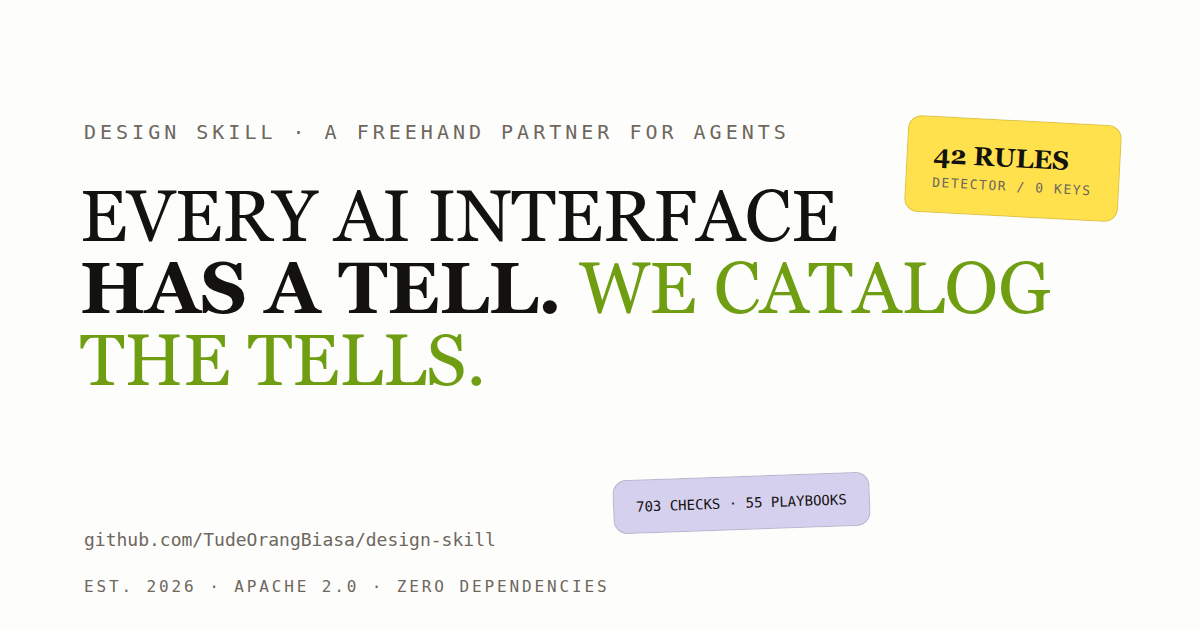
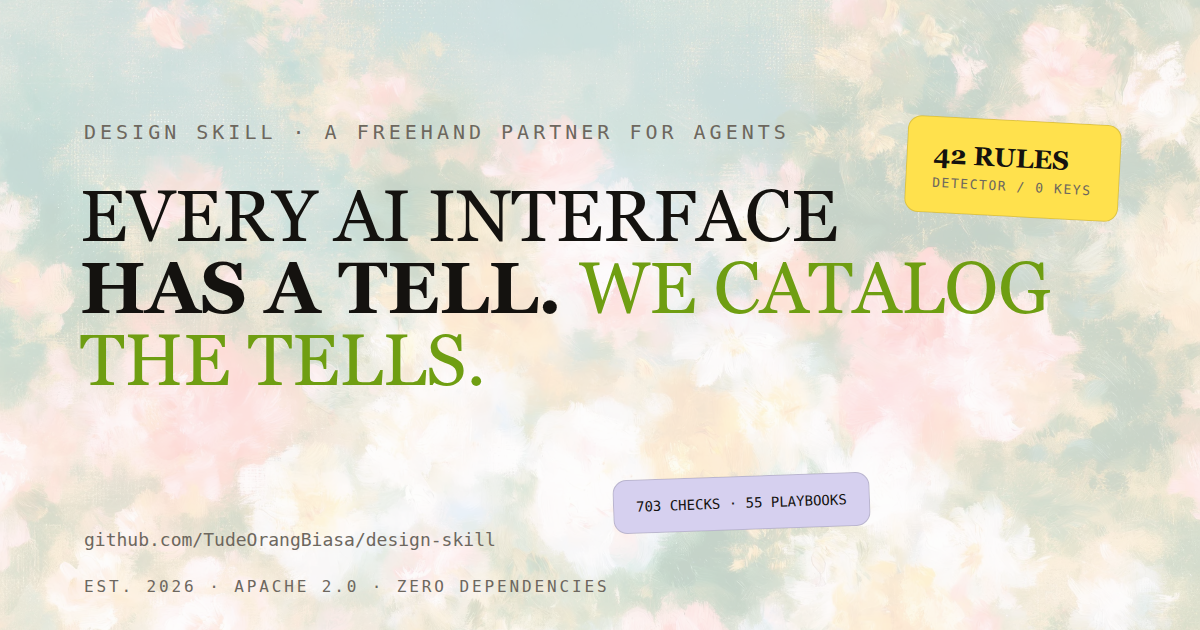
site: painterly backgrounds from the viridian set (webp)
Seven impressionist oil-painting backgrounds (user downloads, 2912x1632 PNG) compressed with ffmpeg to 1920w webp q80, 95% smaller (400-670KB). Placement: viridian-1 (bright meadow) as a washed hero background under a 86% paper overlay; viridian-2 (saxophone on deep green) as the install band texture under an 82% ink overlay; viridian-21 in the og image. Images 10/15/16/18 kept in the compressed library for future sections. Originals gitignored; detector 0 errors; vision-reviewed 9/10.

diff --git a/site/src/site.css b/site/src/site.css
@@ -38,7 +38,10 @@ header{position:sticky;top:0;background:var(--canvas);border-bottom:1px solid va
 
 /* ---------- landing ---------- */
 section{padding:96px 0}
-.hero{padding:120px 0 96px}
+.hero{padding:120px 0 96px;position:relative}
+.hero.painterly{background-image:url("assets/bg/viridian-1.webp");background-size:cover;background-position:center 30%}
+.hero.painterly::before{content:"";position:absolute;inset:0;background:rgba(253,253,251,.86)}
+.hero .wrap{position:relative;z-index:1}
 .kicker{font:12px var(--mono);color:var(--ink2);letter-spacing:.22em;margin-bottom:36px}
 h1{font-family:var(--display);font-weight:400;font-size:92px;line-height:.98;letter-spacing:-.015em;text-transform:uppercase}
 h1 .black{font-weight:900}
@@ -90,7 +93,10 @@ h2{font-family:var(--display);font-weight:900;font-size:40px;letter-spacing:-.01
 .lib-row .t{font-family:var(--display);font-weight:700;font-size:22px}
 .lib-row .d{color:var(--ink2);font-size:15px}
 .lib-row .c{font:12px var(--mono);color:var(--ink);text-align:right;letter-spacing:.1em}
-.band{background:var(--ink);color:var(--canvas);padding:96px 0;width:100%}
+.band{background:var(--ink);color:var(--canvas);padding:96px 0;width:100%;position:relative}
+.band.painterly{background-image:url("assets/bg/viridian-2.webp");background-size:cover;background-position:center 35%}
+.band.painterly::before{content:"";position:absolute;inset:0;background:rgba(20,18,15,.82)}
+.band .wrap{position:relative;z-index:1}
 .band h2{color:var(--canvas)}
 .band .sec-num{color:#a49d92}
 .band .sub{color:#a49d92;max-width:52ch;margin:0 0 32px}

diff --git a/site/src/index.html b/site/src/index.html
@@ -28,7 +28,7 @@
   </div>
 </header>
 
-<section class="hero dot-bg">
+<section class="hero painterly dot-bg">
   <div class="wrap">
     <div class="kicker">A FREEHAND DESIGN PARTNER FOR AGENTS / EST. 2026</div>
     <h1>Every AI interface<br><span class="black">has a tell.</span> <span class="lime">We catalog<br>the tells.</span></h1>
@@ -109,7 +109,7 @@
   </div>
 </section>
 
-<section id="install" class="band dot-bg-dark">
+<section id="install" class="band painterly">
   <div class="wrap">
     <div class="sec-head band-head"><span class="sec-num">03 / INSTALL</span><h2>Install in 30 seconds</h2></div>
     <p class="sub">One package, every harness. Global, pinned, verified against the source.</p>

diff --git a/site/src/assets/og-card.html b/site/src/assets/og-card.html
@@ -5,7 +5,8 @@
 <style>
 *{margin:0;padding:0;box-sizing:border-box}
 body{width:1200px;height:630px;background:#fdfdfb;color:#14120f;font-family:Georgia,serif;overflow:hidden}
-.bg{position:absolute;inset:0}
+.bg{position:absolute;inset:0;background-image:url("bg/viridian-21.webp");background-size:cover;background-position:center 25%}
+.bg::after{content:"";position:absolute;inset:0;background:rgba(253,253,251,.78)}
 h1{font-family:Georgia,serif;font-weight:400;font-size:72px;line-height:1;text-transform:uppercase;position:absolute;top:180px;left:80px}
 h1 b{font-weight:900}
 h1 .lime{color:#6f9e12}
